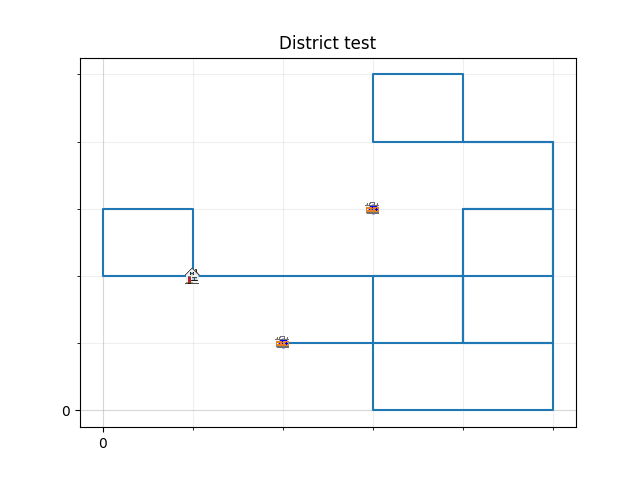
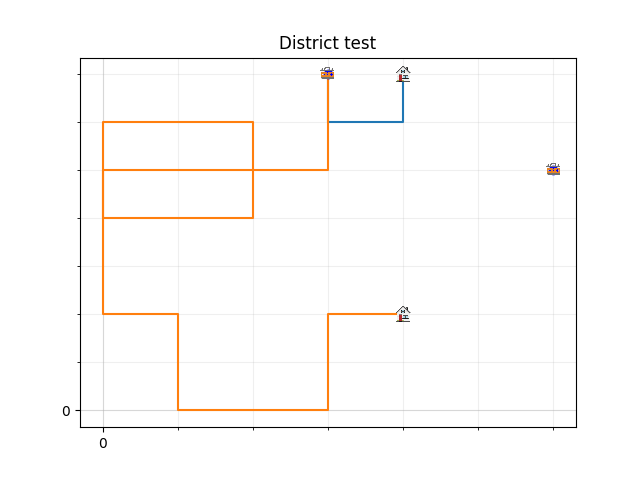
Added solutions file

diff --git a/main.py b/main.py
@@ -4,6 +4,8 @@ from code.visualisation import visualise
 from code.visualisation import costs
 from os import path
 from code.algorithms import random_cables
+import csv
+import pandas as pd
 
 
 if __name__ == "__main__":
@@ -24,9 +26,17 @@ if __name__ == "__main__":
     file_houses = f"data/district_{number}/district-{number}_houses.csv"
     grid1 = grid.Grid(file_batteries, file_houses)
 
-    random_cables.random_cables(grid1)
+    
+    with open('doc/solutions.csv', 'w') as file:
+        file.write("Cables\t\tBatteries\t\tTotal\t\t\n")
+        for _ in range(5):
+            random_cables.random_cables(grid1)
+            total_costs = costs.get_costs(grid1)
+            for key in total_costs.keys():
+                file.write("%i\t\t"%(total_costs[key]))
+            file.write("\n")
 
-    costs = costs.get_costs(grid1)
-    print(costs)
+    # costs = costs.get_costs(grid1)
+    # print(costs)
 
     visualise.visualise(grid1, argv[1])

diff --git a/code/visualisation/visualise.py b/code/visualisation/visualise.py
@@ -9,8 +9,8 @@ def visualise(grid, number):
     # https://stackoverflow.com/questions/24943991/change-grid-interval-and-specify-tick-labels-in-matplotlib
     fig, ax = plt.subplots()
 
-    major_ticks = np.arange(0, 6, 10)
-    minor_ticks = np.arange(0, 6, 1)
+    major_ticks = np.arange(0, 11, 10)
+    minor_ticks = np.arange(0, 11, 1)
     ax.set_xticks(major_ticks)
     ax.set_xticks(minor_ticks, minor=True)
     ax.set_yticks(major_ticks)

diff --git a/code/classes/grid.py b/code/classes/grid.py
@@ -8,8 +8,8 @@ from .route import Route
 
 class Grid():
     def __init__(self, file_batteries, file_houses):
-        self.grid_width = 5
-        self.grid_height = 5
+        self.grid_width = 10
+        self.grid_height = 10
         self.batteries = self.load_battery(file_batteries)
         self.houses = self.load_houses(file_houses)
         # self.cable = cable

diff --git a/README.md b/README.md
@@ -3,3 +3,4 @@
 ## installments
 python -m pip install -U pip
 python -m pip install -U matplotlib
+pip3 install pandas
